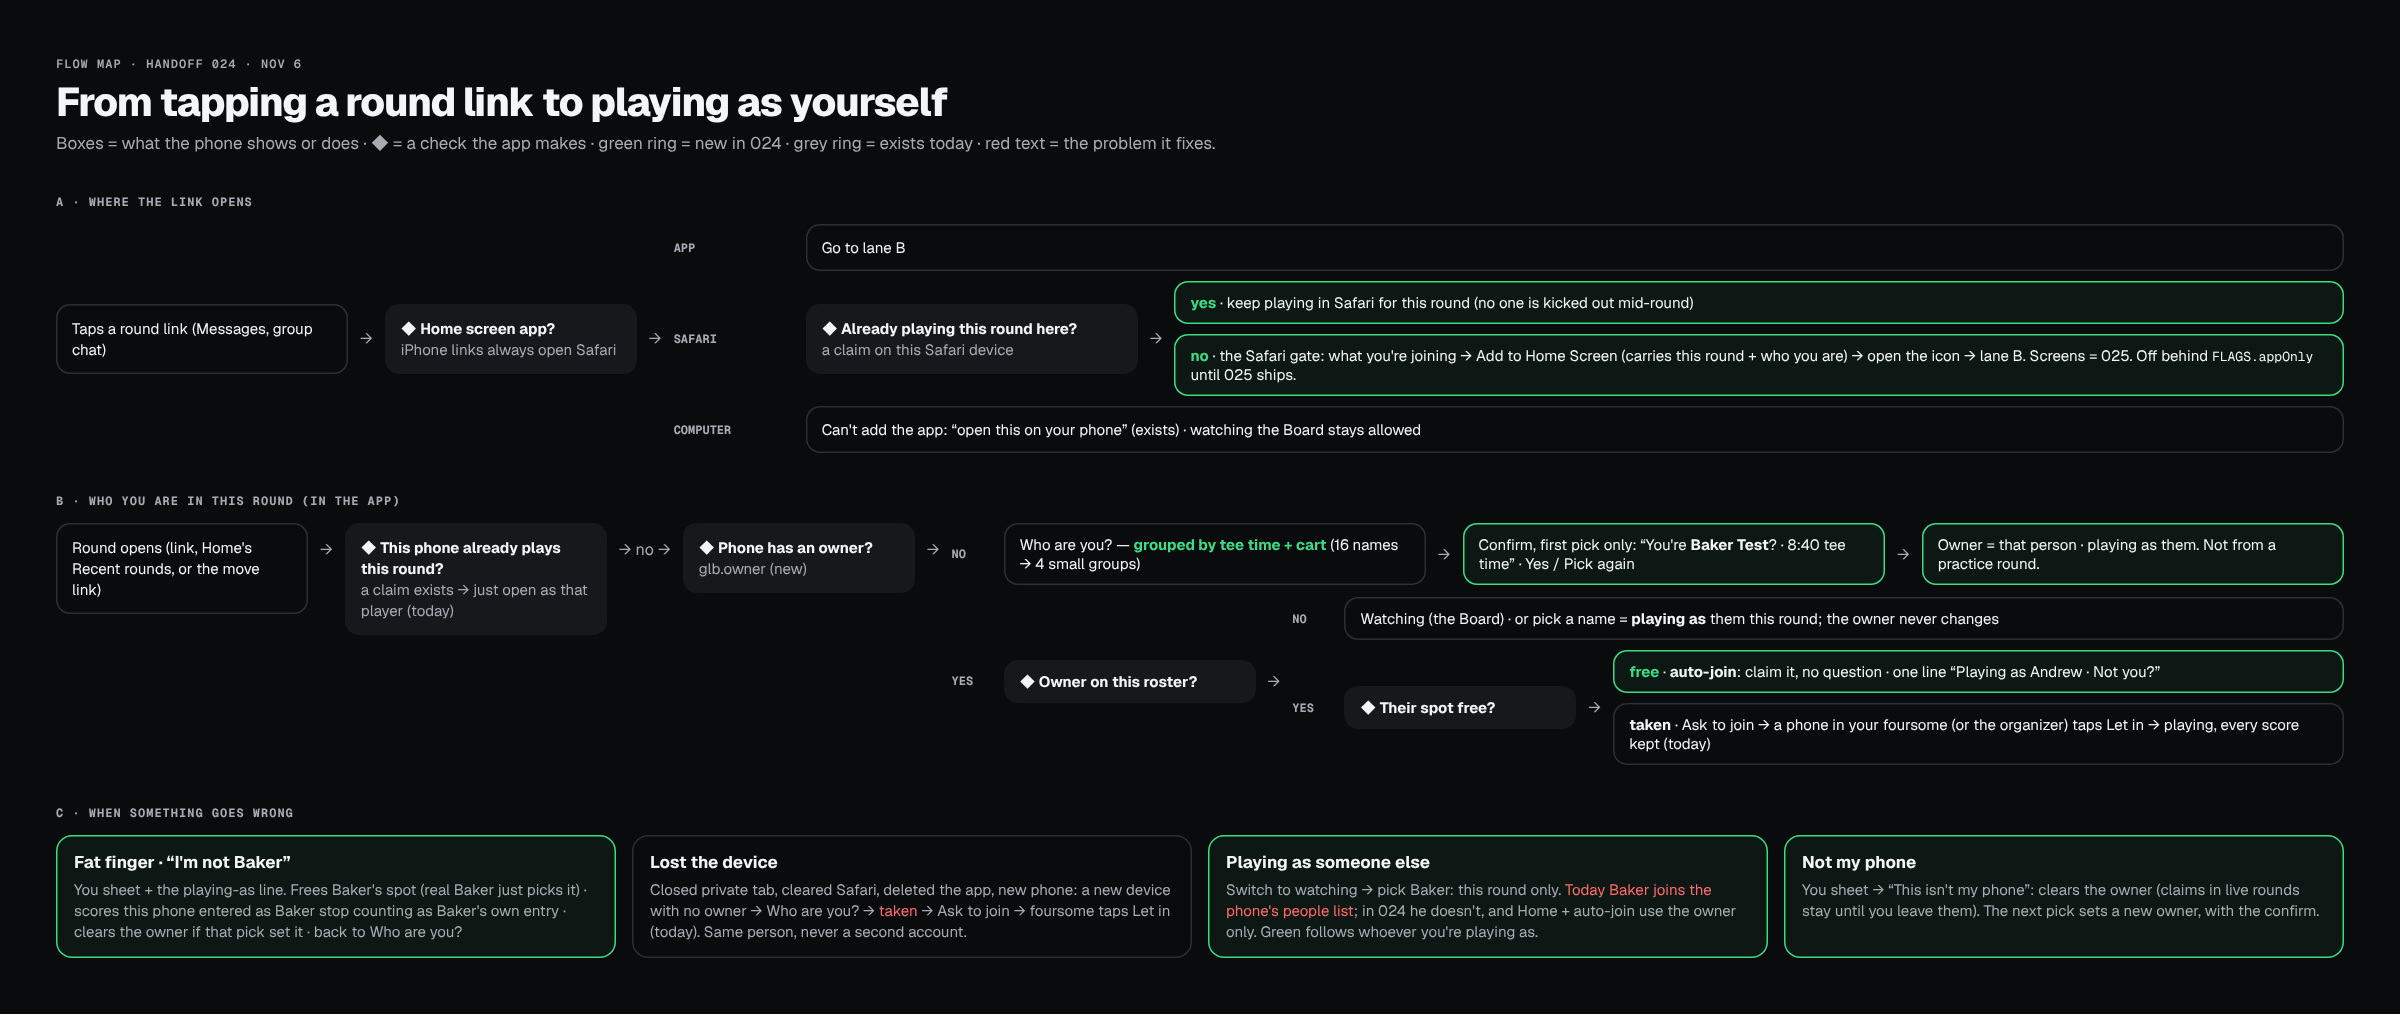
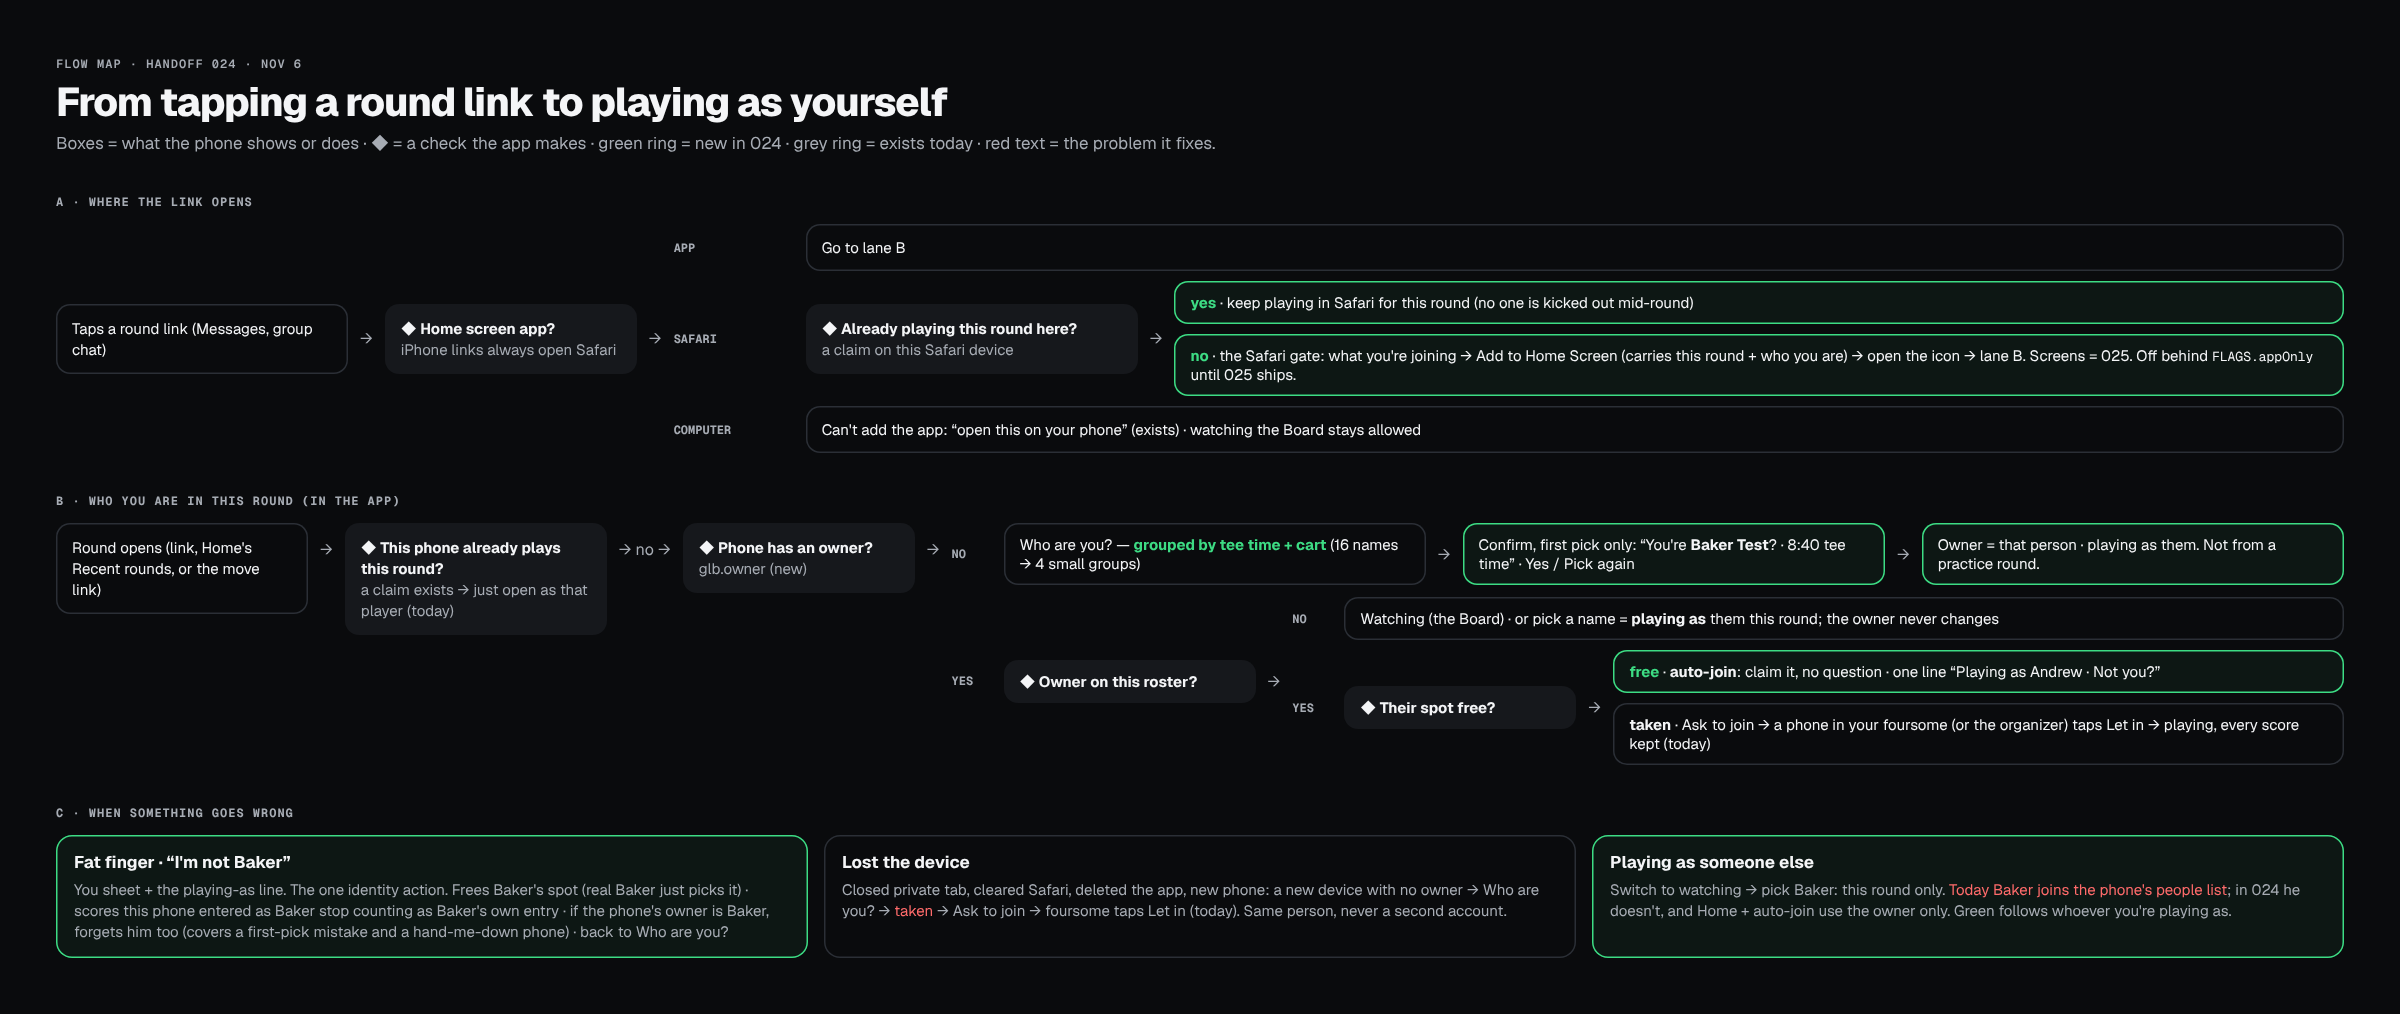
024: one identity action — 'I'm not <name>' also clears the owner when it's that person
Drops the separate 'This isn't my phone' button (owner: one action, not two);
covers the first-pick fat finger and a hand-me-down phone.

Claude-Session: https://claude.ai/code/session_01E1LafE2AXSwC6Gn1hLLUNX

Changed region(s): [[0.0312, 0.8254, 0.9688, 0.9477]]

diff --git a/docs/design/features/024-identity-owner-and-joining/mockups/flow-map.html b/docs/design/features/024-identity-owner-and-joining/mockups/flow-map.html
@@ -66,11 +66,11 @@
 
   <div style="display: flex; flex-direction: column; gap: 14px">
     <span style="font-family: 'Geist Mono', monospace; font-size: 12px; font-weight: 700; letter-spacing: 1px; color: #a7acb4">C · WHEN SOMETHING GOES WRONG</span>
-    <div style="display: grid; grid-template-columns: repeat(4, 1fr); gap: 16px">
-      <div style="border-radius: 16px; box-shadow: inset 0 0 0 1.5px #3ddc84; background: rgba(61,220,132,.06); padding: 16px 18px; display: flex; flex-direction: column; gap: 6px"><b style="font-size: 17px">Fat finger · “I'm not Baker”</b><span style="font-size: 15px; line-height: 21px; color: #a7acb4">You sheet + the playing-as line. Frees Baker's spot (real Baker just picks it) · scores this phone entered as Baker stop counting as Baker's own entry · clears the owner if that pick set it · back to Who are you?</span></div>
+    <div style="display: grid; grid-template-columns: repeat(3, 1fr); gap: 16px">
+      <div style="border-radius: 16px; box-shadow: inset 0 0 0 1.5px #3ddc84; background: rgba(61,220,132,.06); padding: 16px 18px; display: flex; flex-direction: column; gap: 6px"><b style="font-size: 17px">Fat finger · “I'm not Baker”</b><span style="font-size: 15px; line-height: 21px; color: #a7acb4">You sheet + the playing-as line. The one identity action. Frees Baker's spot (real Baker just picks it) · scores this phone entered as Baker stop counting as Baker's own entry · if the phone's owner is Baker, forgets him too (covers a first-pick mistake and a hand-me-down phone) · back to Who are you?</span></div>
       <div style="border-radius: 16px; box-shadow: inset 0 0 0 1.5px #2b2f36; padding: 16px 18px; display: flex; flex-direction: column; gap: 6px"><b style="font-size: 17px">Lost the device</b><span style="font-size: 15px; line-height: 21px; color: #a7acb4">Closed private tab, cleared Safari, deleted the app, new phone: a new device with no owner → Who are you? → <span style="color: #ff6b6b">taken</span> → Ask to join → foursome taps Let in (today). Same person, never a second account.</span></div>
       <div style="border-radius: 16px; box-shadow: inset 0 0 0 1.5px #3ddc84; background: rgba(61,220,132,.06); padding: 16px 18px; display: flex; flex-direction: column; gap: 6px"><b style="font-size: 17px">Playing as someone else</b><span style="font-size: 15px; line-height: 21px; color: #a7acb4">Switch to watching → pick Baker: this round only. <span style="color: #ff6b6b">Today Baker joins the phone's people list</span>; in 024 he doesn't, and Home + auto-join use the owner only. Green follows whoever you're playing as.</span></div>
-      <div style="border-radius: 16px; box-shadow: inset 0 0 0 1.5px #3ddc84; background: rgba(61,220,132,.06); padding: 16px 18px; display: flex; flex-direction: column; gap: 6px"><b style="font-size: 17px">Not my phone</b><span style="font-size: 15px; line-height: 21px; color: #a7acb4">You sheet → “This isn't my phone”: clears the owner (claims in live rounds stay until you leave them). The next pick sets a new owner, with the confirm.</span></div>
+
     </div>
   </div>
 </div>

diff --git a/docs/design/features/024-identity-owner-and-joining/SPEC.md b/docs/design/features/024-identity-owner-and-joining/SPEC.md
@@ -22,7 +22,7 @@ From 025 on, the app is only played as the home screen app. This spec builds tha
 ## 2 · The owner
 
 - **Set** the first time the device claims a player who has a `personId` and the owner is empty. Not from a practice round (`settings.practice`). Not from a round whose player has no `personId` (old rounds).
-- **Never changed** by claiming someone else. Only §4's two actions change it.
+- **Never changed** by claiming someone else. Only “I’m not <name>” (§4) clears it.
 - `db.owner.get()` / `set()` / `clear()` in `js/db.js`, through `db.local` (so `?sim=N` phones stay separate). Add `glb.owner` to `MOVE_KEYS`, so Add to Home Screen carries it.
 - **Migration** (first run of this version, owner empty): the owner is the first crew's `me` (`db.crews`). If there's no crew `me`, use the first entry of `glb.people` (`glb.people` keeps the oldest first, so that's the person this phone played as first). If neither exists, leave it empty. The owner's own phone has Andrew as crew `me`, so it stays Andrew even though `glb.people` also holds Baker.
 - `rememberCrewMe()` stays, but fills a crew's `me` from the owner, not from whoever was just claimed.
@@ -49,8 +49,7 @@ Auto-join runs only on a real open, not on every render or poll. If it fails (`t
   - It **relabels the scores this device entered as that player**, so they stop counting as the player's own entry (the `own_entry` rule in `upsert_score` keys on `updated_by` = the player's name). Set `updated_by = '<name> (picked by mistake)'`, only for that player's rows whose `updated_by` is still the player's name and whose `updated_at` is after the claim's `claimed_at` (the column already exists).
   - It logs the action.
 
-  On the phone: if the owner was set by this pick (store `glb.ownerFrom = CODE` when set), clear the owner. Then show Who are you? again. The real Baker can now just pick his name, with no “taken”.
-- **“This isn’t my phone”** (You sheet, small, at the bottom): clears `glb.owner` only. Live claims stay until you leave them. The next pick sets a new owner, with the confirm.
+  On the phone: **if the owner is that same person, clear the owner too.** That one rule covers both the first-pick fat finger (the mis-tap set the owner) and a hand-me-down phone (“I’m not Andrew” on Andrew's old phone). Then show Who are you? again: the real Baker can just pick his name, with no “taken”, and your pick sets the new owner, with the confirm. There is no separate “This isn’t my phone” button (owner, Nov 6: one action, not two).
 - **Switch to watching** (today): `leave_round`. The owner is unchanged.
 
 Mirror `not_me` in `supabase/schema.sql` **and** `tests/mock-supabase.mjs`. It's additive SQL (`create or replace function` + `grant`), so `apply_migration` works. Write it as `supabase/migrations/2026-11-XX-not-me.sql`.
@@ -60,7 +59,7 @@ Mirror `not_me` in `supabase/schema.sql` **and** `tests/mock-supabase.mjs`. It's
 1. **Who are you?, grouped.** Today's `who` sheet, with the names in groups headed by `teeTimeName()` (“8:40 tee time”), then the cart within each group. Taken names keep today's look. Rounds without tee times fall back to `autoGroups` order with no headers.
 2. **Confirm (first pick on a device without an owner):** a small sheet. Title `You’re Baker Test?` (full name, `fullName()`), one line `8:40 tee time · with Sean` (the cart-mate's first name), primary **Yes, that’s me**, secondary **Pick again**. It shows once per device.
 3. **Playing-as line:** one quiet line (13px, `text-muted`) where the You sheet's name is shown. It reads `Playing as Andrew · Not you?` after an auto-join. When playing as someone other than the owner, it reads `Playing as Baker this round · this phone stays Andrew’s · Not you?`. `Not you?` runs §4's “I’m not Baker”.
-4. **You sheet:** add `I’m not <name>` (the same action) and, at the bottom, `This isn’t my phone`.
+4. **You sheet:** add `I’m not <name>` (the same action). That's the only identity action on the sheet besides today's Switch to watching.
 
 ## 6 · The app-only gate (logic now, screens in 025)
 
@@ -85,6 +84,7 @@ Mirror `not_me` in `supabase/schema.sql` **and** `tests/mock-supabase.mjs`. It's
 | A deleted app, a new phone, cleared data | A new device with no owner → pick + confirm → taken → takeover. The person is the same; never a second account. |
 | Old rounds / players without a `personId` | No auto-join; Who are you? as today. |
 | Two people sharing one phone | One owner; the other plays “as” each round (the line says so). |
+| A hand-me-down phone | The new user taps “I’m not Andrew” once: it frees the spot and clears the owner, because the owner is Andrew. |
 | Computer | Can't add the app; watching is allowed; scoring is not (025 decides the copy). |
 | Trust | The same as today: friends, no passwords. Anyone can still pick any free name; the confirm and the undo cover mistakes, not bad actors. The organizer's Free up is the backstop. |
 | The organizer's phone | The PIN is per device and already moves with Add to Home Screen; a lost phone = type the PIN again. No change. |
@@ -100,4 +100,4 @@ Open for 025 (onboarding screens): the landing copy, the private-tab advice, whe
 - This touches joining and the database (one new RPC). **That is what the smoke suite exists for: ask the owner for a smoke run before pushing** (CLAUDE.md, Testing).
 - Replay check: open the real rounds (V4T3M, Oct 16, and the Bridlewood split-point round, Oct 20) in the mock as a device with an owner. It should auto-join the right player, and the rounds' results should be unchanged.
 
-When built, set the status to “Status: built in <commit>” and add ARCHITECTURE.md §13a + the localStorage key list in CLAUDE.md (`glb.owner`, `glb.ownerFrom`, `glb.hasApp`).
+When built, set the status to “Status: built in <commit>” and add ARCHITECTURE.md §13a + the localStorage key list in CLAUDE.md (`glb.owner`, `glb.hasApp`).
